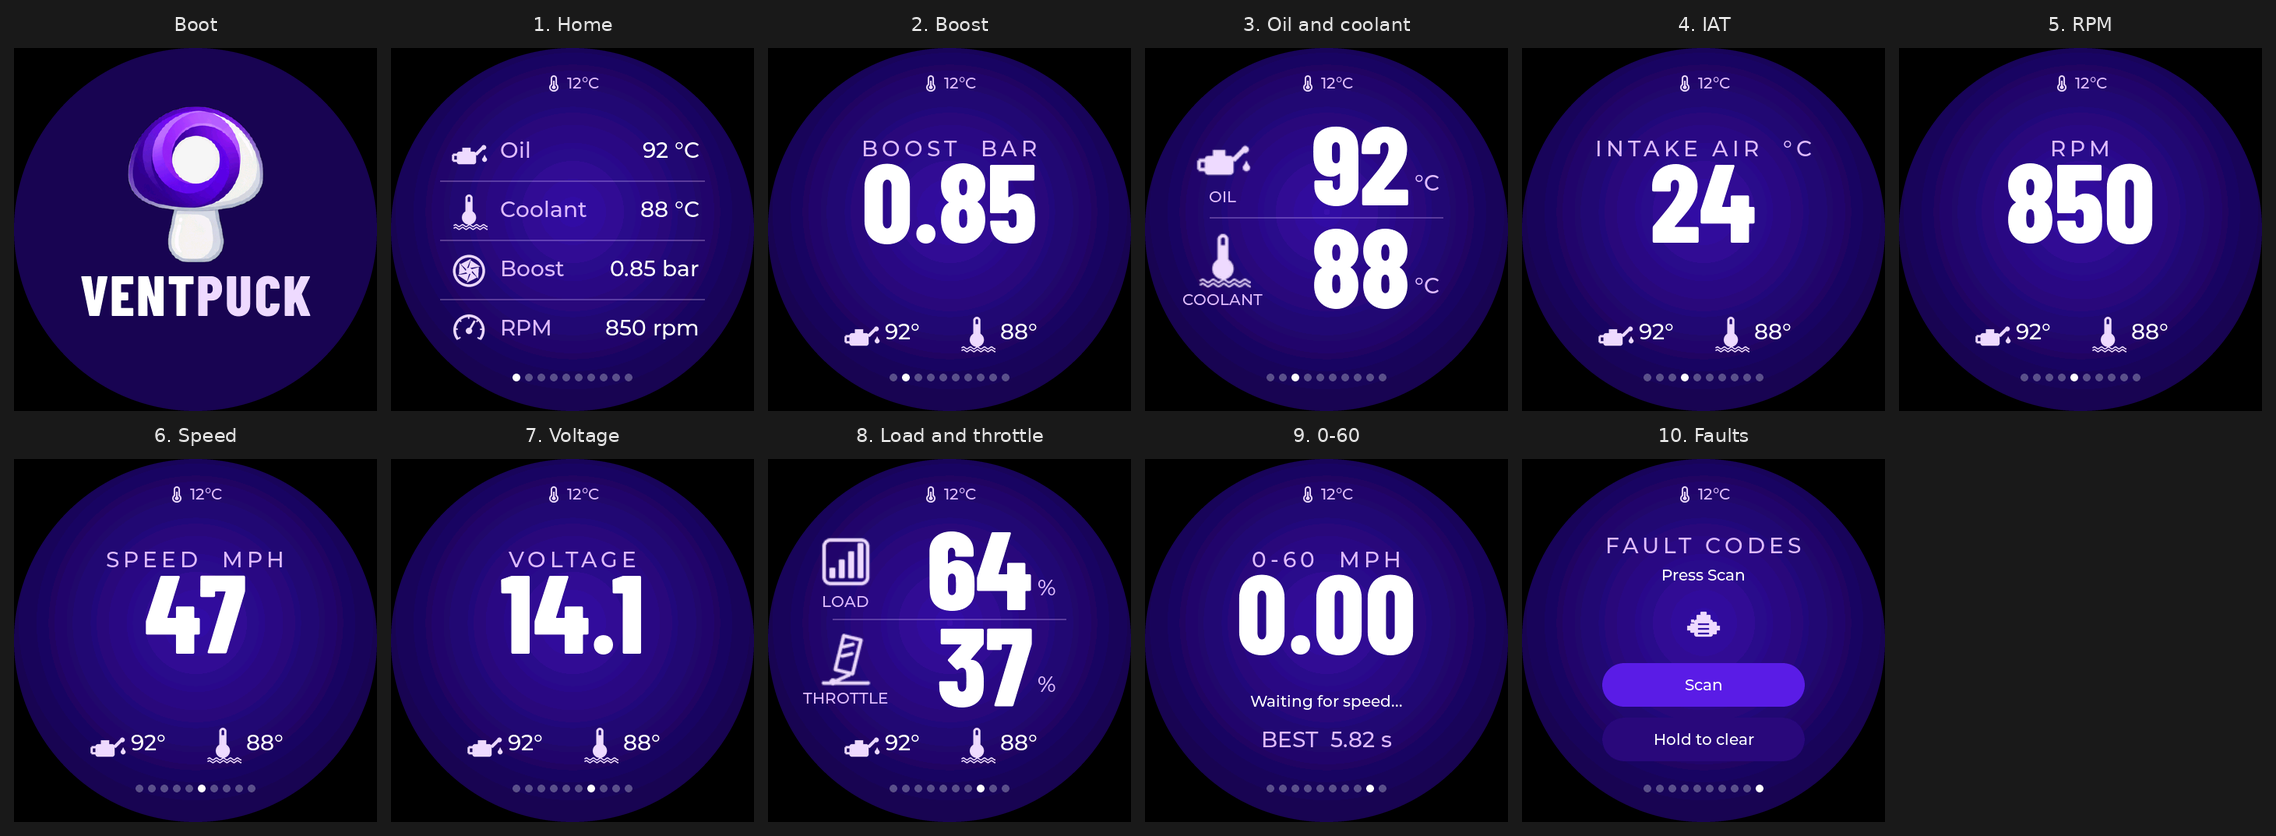
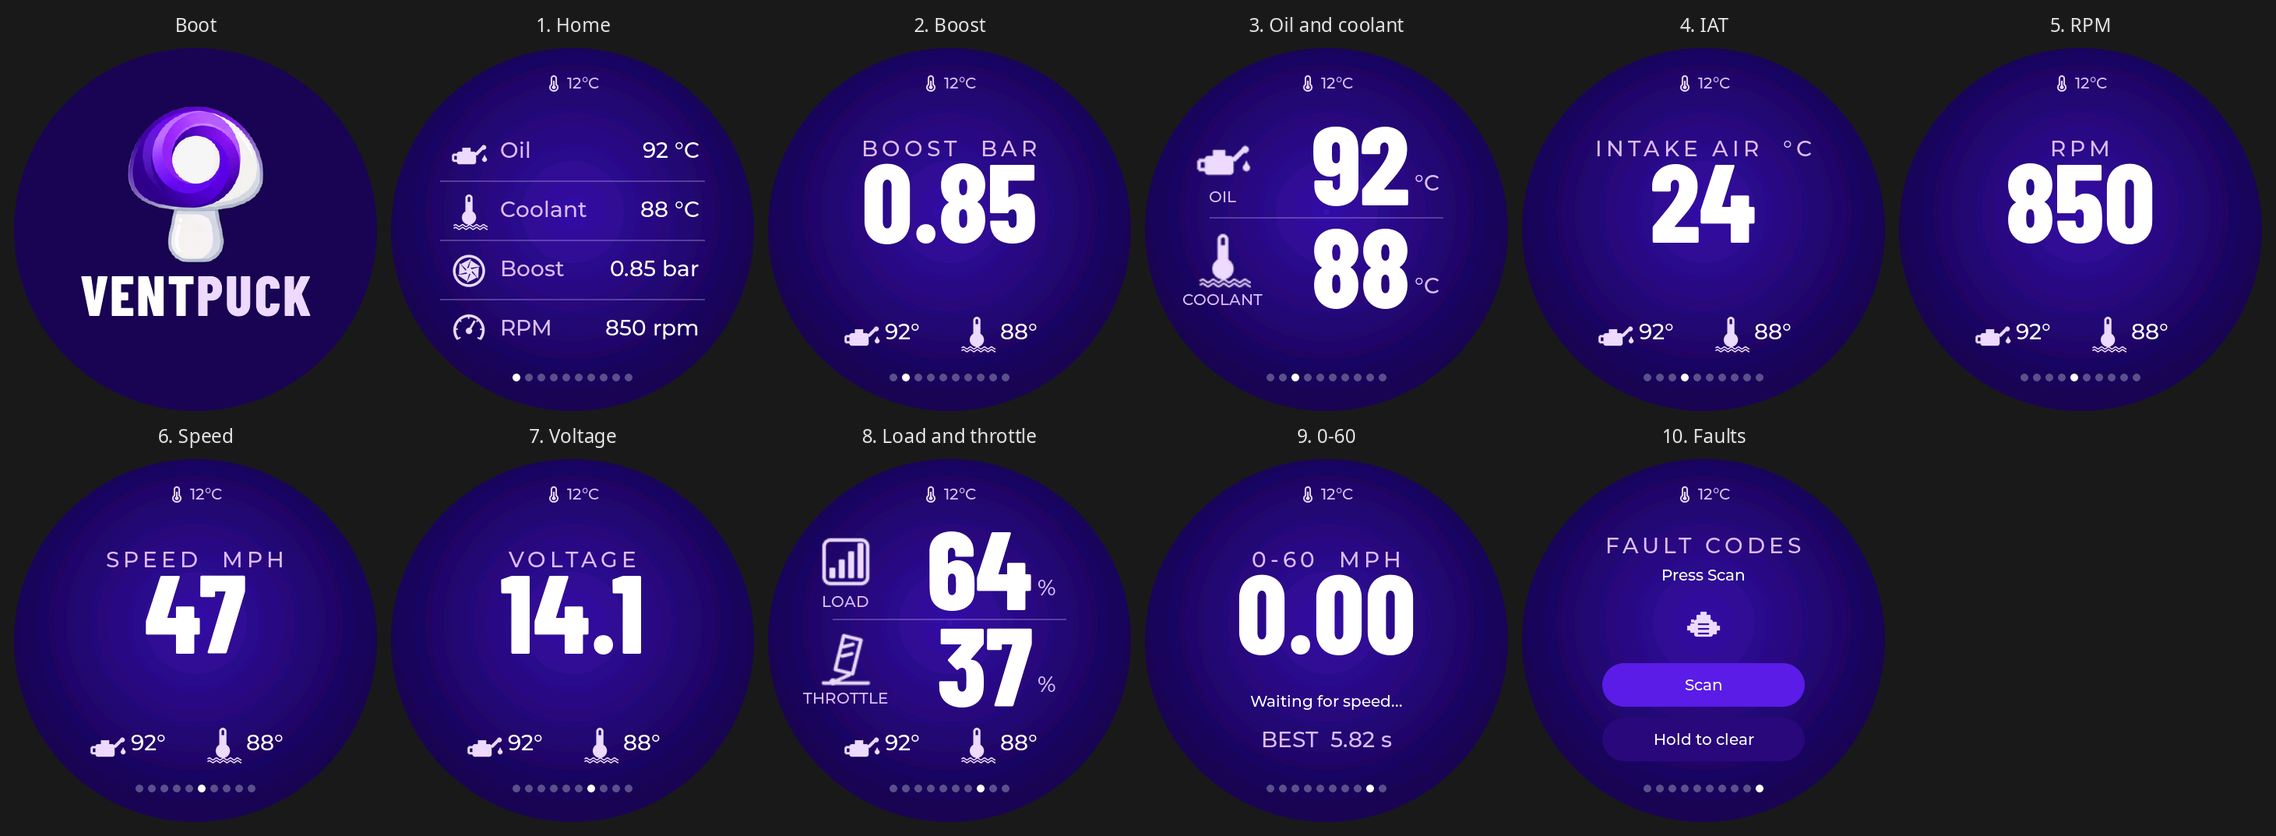
Screenshots now render as circles

diff --git a/tools/screenshots/compose.py b/tools/screenshots/compose.py
@@ -39,9 +39,7 @@ def main():
         y = row * (LABEL_HEIGHT + TILE)
 
         page = Image.open(f"{src}/{file}.ppm").convert("RGB").resize((TILE, TILE), Image.LANCZOS)
-        tile = Image.new("RGB", (TILE, TILE), (0, 0, 0))
-        tile.paste(page, (0, 0), mask)
-        sheet.paste(tile, (x, y + LABEL_HEIGHT))
+        sheet.paste(page, (x, y + LABEL_HEIGHT), mask)
 
         draw.text((x + TILE / 2, y + LABEL_HEIGHT / 2), name if i == 0 else f"{i}. {name}", font=font, fill=TEXT, anchor="mm")
 
